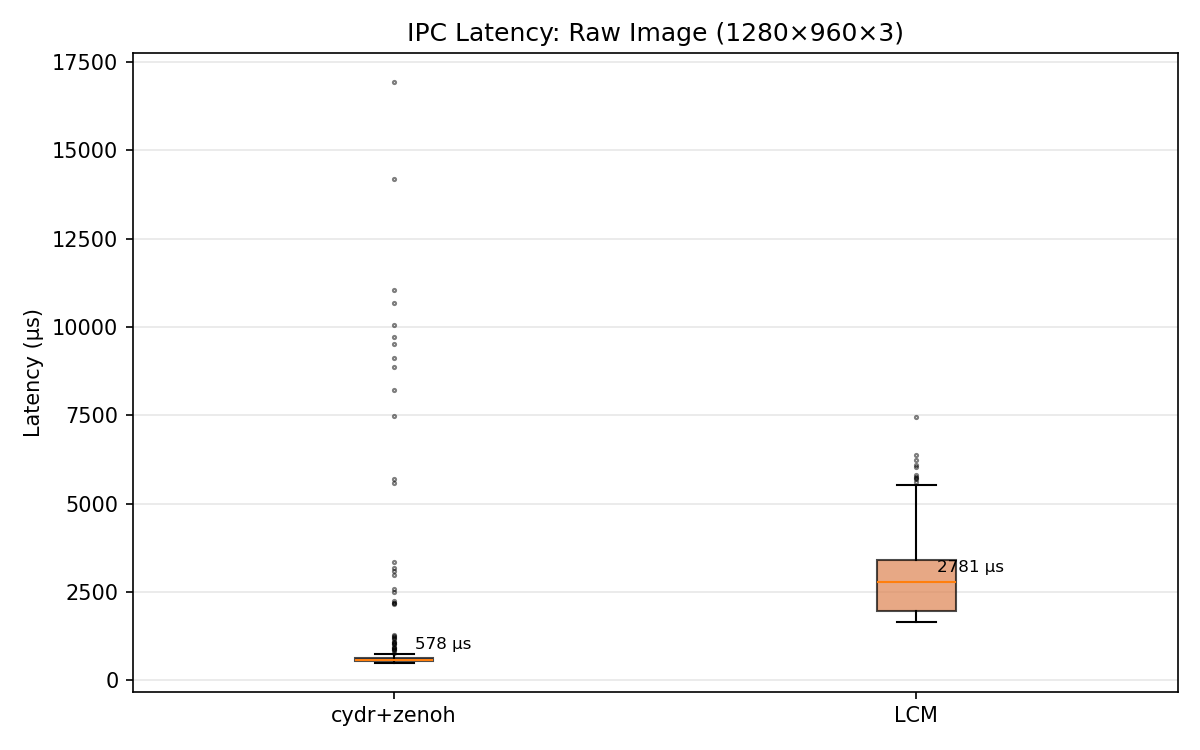
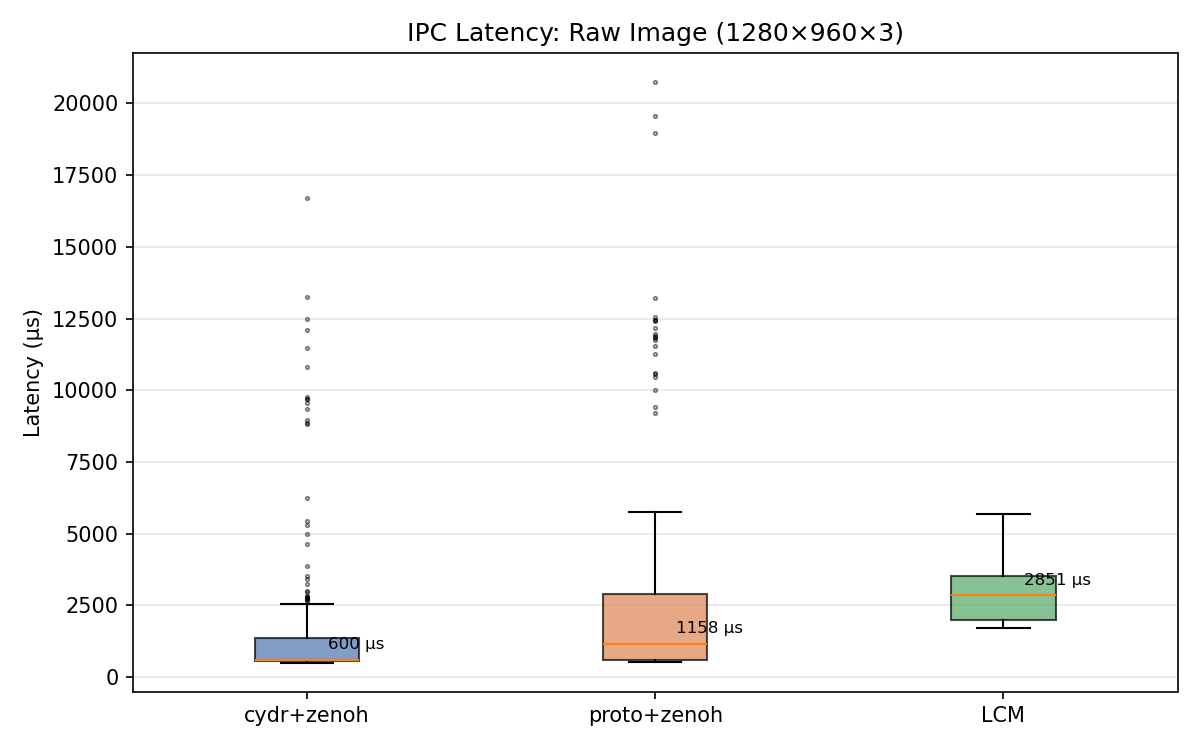
add protobuf/betterproto to serdes and IPC benchmarks

diff --git a/bench_ipc.py b/bench_ipc.py
@@ -162,6 +162,128 @@ def bench_zenoh_cydr_joint(names, pos, vel, eff):
     return latencies
 
 
+# ── betterproto + zenoh ──────────────────────────────────────────────────────
+
+def _get_proto_types():
+    import betterproto
+    from dataclasses import dataclass
+
+    @dataclass
+    class ProtoImage(betterproto.Message):
+        height: int = betterproto.uint32_field(1)
+        width: int = betterproto.uint32_field(2)
+        encoding: str = betterproto.string_field(3)
+        is_bigendian: int = betterproto.uint32_field(4)
+        step: int = betterproto.uint32_field(5)
+        data: bytes = betterproto.bytes_field(6)
+
+    @dataclass
+    class ProtoJointState(betterproto.Message):
+        name: list[str] = betterproto.string_field(1)
+        position: list[float] = betterproto.double_field(2)
+        velocity: list[float] = betterproto.double_field(3)
+        effort: list[float] = betterproto.double_field(4)
+
+    return ProtoImage, ProtoJointState
+
+
+def bench_zenoh_proto_image(img_flat):
+    import zenoh
+    ProtoImage, _ = _get_proto_types()
+
+    print("\n=== protobuf + zenoh: raw Image ===")
+
+    msg = ProtoImage(
+        height=H, width=W, encoding="bgr8",
+        is_bigendian=0, step=W * C,
+        data=bytes(img_flat),
+    )
+
+    latencies = []
+    received = threading.Event()
+    count = [0]
+
+    def on_sample(sample):
+        t_recv = time.monotonic_ns()
+        payload = bytes(sample.payload)
+        t_send = unstamp_bytes(payload)
+        _ = ProtoImage().parse(payload[8:])
+        count[0] += 1
+        if count[0] > N_WARMUP:
+            latencies.append(t_recv - t_send)
+        if count[0] >= N_WARMUP + N_MSGS:
+            received.set()
+
+    cfg = zenoh.Config()
+    session = zenoh.open(cfg)
+    sub = session.declare_subscriber("bench/proto_image", on_sample)
+
+    time.sleep(0.3)
+
+    blob = bytes(msg)
+    for _ in range(N_WARMUP + N_MSGS):
+        payload = stamp_bytes() + blob
+        session.put("bench/proto_image", payload)
+        time.sleep(0.001)
+
+    received.wait(timeout=10)
+    sub.undeclare()
+    time.sleep(0.1)
+    session.close()
+
+    if latencies:
+        report(f"end-to-end ({len(latencies)} msgs, {len(blob):,} bytes)", latencies)
+    else:
+        print("  ⚠ no messages received")
+    return latencies
+
+
+def bench_zenoh_proto_joint(names, pos, vel, eff):
+    import zenoh
+    _, ProtoJointState = _get_proto_types()
+
+    print("\n=== protobuf + zenoh: JointState ===")
+
+    msg = ProtoJointState(name=names, position=pos, velocity=vel, effort=eff)
+
+    latencies = []
+    received = threading.Event()
+    count = [0]
+
+    def on_sample(sample):
+        t_recv = time.monotonic_ns()
+        payload = bytes(sample.payload)
+        t_send = unstamp_bytes(payload)
+        _ = ProtoJointState().parse(payload[8:])
+        count[0] += 1
+        if count[0] > N_WARMUP:
+            latencies.append(t_recv - t_send)
+        if count[0] >= N_WARMUP + N_MSGS:
+            received.set()
+
+    cfg = zenoh.Config()
+    session = zenoh.open(cfg)
+    sub = session.declare_subscriber("bench/proto_joint", on_sample)
+
+    time.sleep(0.3)
+
+    blob = bytes(msg)
+    for _ in range(N_WARMUP + N_MSGS):
+        payload = stamp_bytes() + blob
+        session.put("bench/proto_joint", payload)
+        time.sleep(0.0002)
+
+    received.wait(timeout=10)
+    sub.undeclare()
+    session.close()
+
+    if latencies:
+        report(f"end-to-end ({len(latencies)} msgs, {len(blob):,} bytes)", latencies)
+    else:
+        print("  ⚠ no messages received")
+    return latencies
+
+
 # ── LCM ──────────────────────────────────────────────────────────────────────
 
 def bench_lcm_image(img_flat):
@@ -323,21 +445,23 @@ def main():
 
     # Image benchmarks
     z_img = bench_zenoh_cydr_image(img_flat)
+    p_img = bench_zenoh_proto_image(img_flat)
     l_img = bench_lcm_image(img_flat)
 
     # JointState benchmarks
     z_js = bench_zenoh_cydr_joint(names, pos, vel, eff)
+    p_js = bench_zenoh_proto_joint(names, pos, vel, eff)
     l_js = bench_lcm_joint(names, pos, vel, eff)
 
     # Box plots
     print("\n=== Generating plots ===")
     plot_results(
-        {"cydr+zenoh": z_img, "LCM": l_img},
+        {"cydr+zenoh": z_img, "proto+zenoh": p_img, "LCM": l_img},
         f"IPC Latency: Raw Image ({W}×{H}×{C})",
         "bench_ipc_image.png",
     )
     plot_results(
-        {"cydr+zenoh": z_js, "LCM": l_js},
+        {"cydr+zenoh": z_js, "proto+zenoh": p_js, "LCM": l_js},
         f"IPC Latency: JointState ({N_JOINTS} joints)",
         "bench_ipc_joint.png",
     )

diff --git a/bench_serdes.py b/bench_serdes.py
@@ -138,6 +138,79 @@ def bench_cydr(img_flat: np.ndarray, jpeg_bytes: bytes):
     print("  ✓ roundtrip correctness verified")
 
 
+# ── Protobuf (betterproto) ───────────────────────────────────────────────────
+
+def _get_proto_types():
+    """Define protobuf message types via betterproto (no .proto file needed)."""
+    import betterproto
+    from dataclasses import dataclass, field as dc_field
+
+    @dataclass
+    class ProtoImage(betterproto.Message):
+        height: int = betterproto.uint32_field(1)
+        width: int = betterproto.uint32_field(2)
+        encoding: str = betterproto.string_field(3)
+        is_bigendian: int = betterproto.uint32_field(4)
+        step: int = betterproto.uint32_field(5)
+        data: bytes = betterproto.bytes_field(6)
+
+    @dataclass
+    class ProtoJointState(betterproto.Message):
+        name: list[str] = betterproto.string_field(1)
+        position: list[float] = betterproto.double_field(2)
+        velocity: list[float] = betterproto.double_field(3)
+        effort: list[float] = betterproto.double_field(4)
+
+    return ProtoImage, ProtoJointState
+
+
+def bench_proto_image(img_flat: np.ndarray):
+    ProtoImage, _ = _get_proto_types()
+
+    print("\n=== Protobuf/betterproto (raw Image) ===")
+    msg = ProtoImage(
+        height=H, width=W, encoding="bgr8",
+        is_bigendian=0, step=W * C,
+        data=bytes(img_flat),
+    )
+    blob = bytes(msg)
+    print(f"  blob size: {len(blob):,} bytes")
+
+    def ser():
+        bytes(msg)
+    def deser():
+        ProtoImage().parse(blob)
+
+    bench("serialize   (raw Image)", ser)
+    bench("deserialize (raw Image)", deser)
+
+    rt = ProtoImage().parse(blob)
+    assert rt.height == H and rt.width == W and rt.encoding == "bgr8"
+    assert rt.data == bytes(img_flat), "protobuf raw Image roundtrip MISMATCH"
+    print("  ✓ roundtrip correctness verified")
+
+
+def bench_proto_jointstate(names, pos, vel, eff):
+    _, ProtoJointState = _get_proto_types()
+
+    print("\n=== Protobuf/betterproto (JointState) ===")
+    msg = ProtoJointState(name=names, position=pos, velocity=vel, effort=eff)
+    blob = bytes(msg)
+    print(f"  blob size: {len(blob):,} bytes")
+
+    def ser():
+        bytes(msg)
+    def deser():
+        ProtoJointState().parse(blob)
+
+    bench("serialize   (JointState)", ser)
+    bench("deserialize (JointState)", deser)
+
+    rt = ProtoJointState().parse(blob)
+    assert rt.name == names and rt.position == pos
+    print("  ✓ roundtrip correctness verified")
+
+
 # ── LCM ───────────────────────────────────────────────────────────────────────
 
 def bench_lcm_image(img_flat: np.ndarray):
@@ -203,6 +276,7 @@ def main():
 
     bench_cyclone(img_flat, jpeg_bytes)
     bench_cydr(img_flat, jpeg_bytes)
+    bench_proto_image(img_flat)
     bench_lcm_image(img_flat)
 
     # cross-backend: verify cyclone and cydr produce identical blobs
@@ -290,6 +364,9 @@ def bench_jointstate():
 
     # ── LCM JointState
     bench_lcm_jointstate(names, pos, vel, eff)
+
+    # ── Protobuf JointState
+    bench_proto_jointstate(names, pos, vel, eff)
 
 
 if __name__ == "__main__":

diff --git a/README.md b/README.md
@@ -7,6 +7,7 @@ Benchmarks comparing serialization and IPC latency for ROS 2 message types using
 **Serialization only** (`bench_serdes.py`):
 - `ros2_pyterfaces` cyclone backend (CDR via Cyclone DDS Python)
 - `ros2_pyterfaces` cydr backend (CDR via cydr/msgspec)
+- Protobuf via [betterproto](https://github.com/danielgtaylor/python-betterproto) (pure Python protobuf)
 - LCM (hand-written struct-based encode/decode)
 - Message types: `Image` (1280×960×3), `CompressedImage` (JPEG), `JointState` (16 joints)
 
@@ -44,19 +45,19 @@ pixi run python bench_ipc.py
 
 ### Serialization (µs per call)
 
-| Message | Cyclone | cydr | LCM |
-|---|---|---|---|
-| Image serialize | 126,000 | 560 | 505 |
-| Image deserialize | 55,000 | 220 | 204 |
-| JointState serialize | 40 | 4.3 | 7.8 |
-| JointState deserialize | 39 | 6.4 | 7.9 |
+| Message | Cyclone | cydr | Protobuf | LCM |
+|---|---|---|---|---|
+| Image serialize | 126,000 | 562 | 529 | 522 |
+| Image deserialize | 55,000 | 214 | 441 | 203 |
+| JointState serialize | 40 | 4.3 | 109 | 7.8 |
+| JointState deserialize | 39 | 6.3 | 77 | 7.7 |
 
 ### IPC median latency (µs)
 
-| Message | cydr+zenoh | LCM |
-|---|---|---|
-| Image (3.7 MB) | 578 | 2,781 |
-| JointState (644 B) | 10.7 | 21.3 |
+| Message | cydr+zenoh | proto+zenoh | LCM |
+|---|---|---|---|
+| Image (3.7 MB) | 600 | 1,158 | 2,851 |
+| JointState (644 B) | 10.4 | 9.0 | 20.9 |
 
 ### IPC latency box plots
 
@@ -70,3 +71,4 @@ Managed by pixi. Key packages:
 - [ros2-pyterfaces](https://github.com/2lian/ros2-pyterfaces) — ROS 2 message serialization (cyclone + cydr backends)
 - [zenoh](https://zenoh.io/) — zero-overhead pub/sub transport
 - [lcm](https://github.com/lcm-proj/lcm) — Lightweight Communications and Marshalling
+- [betterproto](https://github.com/danielgtaylor/python-betterproto) — Pure Python Protobuf 3 code generation
